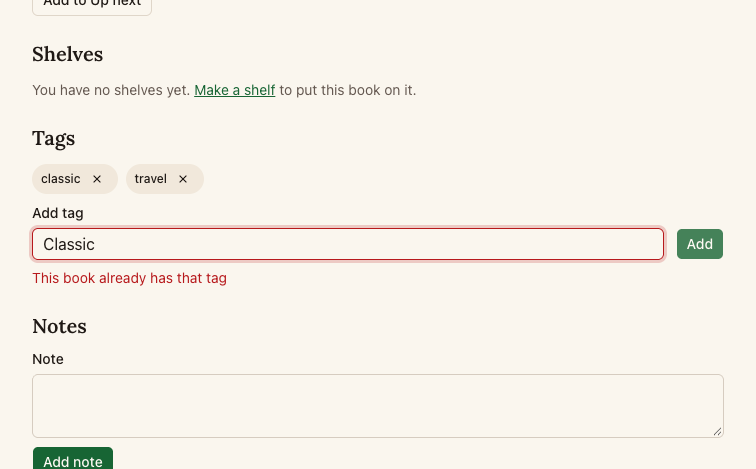
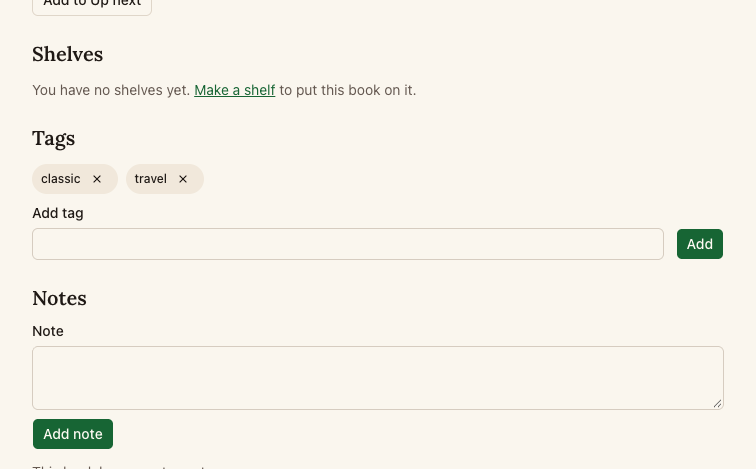
fix(F064): removeTag throws when deleting the unused tag fails

diff --git a/lib/tags.ts b/lib/tags.ts
@@ -90,6 +90,9 @@ export async function removeTag(supabase: SupabaseClient<Database>, bookId: stri
     .select("tag_id", { count: "exact", head: true })
     .eq("tag_id", tagId);
   if (countError) throw new Error(countError.message);
-  if (count === 0) await supabase.from("tags").delete().eq("id", tagId);
+  if (count === 0) {
+    const { error: deleteError } = await supabase.from("tags").delete().eq("id", tagId);
+    if (deleteError) throw new Error(deleteError.message);
+  }
   return true;
 }

diff --git a/lib/tags.test.ts b/lib/tags.test.ts
@@ -201,4 +201,12 @@ describe("removeTag", () => {
       ),
     ).rejects.toThrow("c");
   });
+  it("throws when deleting the unused tag fails", async () => {
+    const { client } = fakeClient([
+      { data: [{ tag_id: "t" }] },
+      { count: 0 },
+      { error: { message: "d" } },
+    ]);
+    await expect(removeTag(client, "b", "t")).rejects.toThrow("d");
+  });
 });

diff --git a/harness/evidence/F064.md b/harness/evidence/F064.md
@@ -1,22 +1,24 @@
 <!-- written by harness/hooks/verifier-evidence.py; do not edit -->
-- Verified at: 2026-11-10T13:18:13 on 4f78eea plus working tree
-- Verifier run: a3cf2de787d9e4101
+- Verified at: 2026-11-10T13:25:03 on 991380c plus working tree
+- Verifier run: a0db26242454ab5c3
 
 VERDICT: PASS
 FEATURE: F064
 CRITERIA:
-- CRITERION 1: PASS — On a new book's page I typed "classic" in "Add tag" and pressed "Add". A "classic" chip showed up and was still there after a page reload.
-- CRITERION 2: PASS — Adding "travel" showed both chips in the order classic, travel. A third tag, "adventure", went to the front (adventure, classic, travel), so the list really is sorted A to Z and not just shown in the order I added them.
-- CRITERION 3: PASS — Each chip has a "Remove tag <name>" button. After I removed travel (and the temporary adventure tag), only "Remove tag classic" was left, before and after reload.
-- CRITERION 4: PASS — On /books, the "Moby Dick QA" card shows a "classic" chip under the title and author. The untagged "Second Book QA" card shows no chip.
+- CRITERION 1: PASS — On a new book's page I typed 'classic' in "Add tag" and pressed "Add". A 'classic' chip with a "Remove tag classic" button appeared, and it was still there after a page reload.
+- CRITERION 2: PASS — I added 'travel' and saw two chips in order [classic, travel]. To rule out insertion order, I also added 'adventure', which sorted first ([adventure, classic, travel]), then removed it.
+- CRITERION 3: PASS — I clicked "Remove tag travel" and only [Remove tag classic] was left, both right away and after a reload. No error appeared.
+- CRITERION 4: PASS — /books shows a "Tags for <title>" list under each tagged book's title: "Verifier Tags Book: classic", "Second Book QA: adventure,sea", "Moby Dick QA: classic". An untagged book shows no list.
 EVIDENCE:
-- Setup: app on http://localhost:43182, started with ./init.sh. Port 3000 was never used. I signed up a fresh account (qa-f064-<timestamp>@example.com) and added two books, "Moby Dick QA" and "Second Book QA", both Want to read.
-- Step 1: The Tags section said "This book has no tags." After adding "classic", the chip appeared and the input was cleared. After reload, the Tags section still read "classic". (harness/evidence/F064/step-01.png)
-- Step 2: The Remove buttons read ["Remove tag classic", "Remove tag travel"]. (harness/evidence/F064/step-02.png)
-- Step 3: Remove buttons before reload: ["Remove tag classic"]. After reload: ["Remove tag classic"]. (harness/evidence/F064/step-03.png)
-- Step 4: The book list, full-page at 1280px and at 375x812. The classic chip is under the title and author of Moby Dick QA. (harness/evidence/F064/step-04.png, harness/evidence/F064/step-04-mobile.png)
-- Up next (from F071) beside Tags: I clicked "Add to Up next" on the book page. The button became "In Up next. See your queue", and /up-next listed "Moby Dick QA" with "Start reading" and "Remove". Back on the book page, the tag chip was still there. At 375px the book page shows the Up next line above Shelves and Tags, the chips have an x to remove them, and the Add tag input and Add button sit side by side. The page width was exactly 375, so nothing scrolls sideways. I checked this in a screenshot saved outside the evidence folder: /private/tmp/claude-501/-Users-huynguyen-Desktop-harness-web-trial-loop-F064/f1748fe5-1e48-49d1-9e92-815dc25f955a/scratchpad/book-mobile.png
-- Edge cases: Pressing Add with an empty field shows "Enter a tag" and adds nothing. Adding "Classic" (capitalized duplicate) shows "This book already has that tag" and adds nothing. Reloading kept the tags each time.
-- Errors: The browser console had 0 errors and 0 warnings for the whole session. The server log has no errors, only the expected validation results from the addBookTag action.
-- Test coverage: e2e/F064-tags-book.spec.ts covers adding tags, A to Z order, removing a tag, and reload. I read it but did not run it.
+- Setup: The app was not running, so I started it with ./init.sh, which printed "Serving on http://localhost:43183". The browser session was already signed in. I added a book "Verifier Tags Book" (Austen) at /books/10159ee7-d8d9-4b62-ada3-326e9d2e5852.
+- Step 1: The chip 'classic' showed after Add and after a reload (/Users/huynguyen/Desktop/harness-web-trial-loop/F064/harness/evidence/F064/step-01.png)
+- Step 2: The chips classic and travel showed, sorted A to Z (/Users/huynguyen/Desktop/harness-web-trial-loop/F064/harness/evidence/F064/step-02.png)
+- Step 3: After removing travel and reloading, only classic was left (/Users/huynguyen/Desktop/harness-web-trial-loop/F064/harness/evidence/F064/step-03.png)
+- Step 4: The book list showed each book's tags under its title (/Users/huynguyen/Desktop/harness-web-trial-loop/F064/harness/evidence/F064/step-04.png). At 375px the chips wrap cleanly and scrollWidth is 375, so nothing scrolls sideways (/Users/huynguyen/Desktop/harness-web-trial-loop/F064/harness/evidence/F064/step-04-mobile.png). The book page's Tags section at 375px also looked fine (scrollWidth 375).
+- Latest change (removeTag now throws if deleting the unused tag row fails): I removed 'adventure' while another book still used it, and 'travel' when it was the last use. Both worked with no error shown and the chips disappeared. I could not trigger the failure path from the UI. The new unit test in lib/tags.test.ts covers it, and `npx vitest run lib/tags.test.ts` passed 18/18.
+- Edge cases: Pressing Add with an empty field shows "Enter a tag" and adds no chip. Adding 'Classic' when 'classic' was already on the book shows "This book already has that tag" and adds no duplicate.
+- Console and server: 0 browser console errors or warnings in the whole session. The only "error" match in the server log is the expected field-validation entry from the empty submit (fieldErrors name "Enter a tag"), not a crash.
+- Test coverage: e2e/F064-tags-book.spec.ts has "book page: add and remove tags" and "book list: tags show under each title". I did not run it.
 PROBLEMS:
+- None for F064. Side note: /tags shows only a "Tags" heading, so I could not use it to confirm that the unused 'travel' tag row was deleted. That page belongs to another feature.
+- Test data: I left "Verifier Tags Book" (tag classic) in the account and added the tags 'sea' and 'adventure' to the existing "Second Book QA".

diff --git a/harness/log/F064.md b/harness/log/F064.md
@@ -1,3 +1,8 @@
+## 2026-11-10 16:00 · passing
+- Did: review fix: removeTag in lib/tags.ts now throws when deleting the now-unused tag row fails, like the queries before it. Added a unit case to lib/tags.test.ts.
+- Verified by: check.sh green; verifier PASS (4 criteria, desktop + 375px).
+- Next session should know: the UI cannot trigger the failure path, so only the unit test covers it.
+
 ## 2026-11-10 15:00 · passing
 - Did: merged origin/main (F071 Up next). Resolved app/books/[id]/actions.ts and page.tsx by keeping both the tag actions/BookTags and addToUpNext/queued. Took main's book-page baselines, then regenerated the 11 that both sides changed with --update-snapshots=changed; kept the stats baselines (F023/F024/F027) as they were, because they only drifted by scroll offset. Added unit tests for lib/tags.ts, because the merged coverage (main's untested lib/queue.ts plus tags.ts) fell below the 80% threshold.
 - Verified by: full e2e suite 95/95; check.sh green; verifier PASS (4 criteria, desktop + 375px, Up next still works beside Tags).
